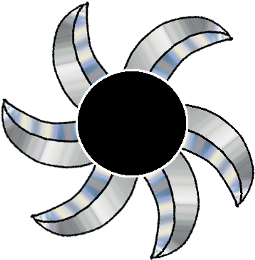
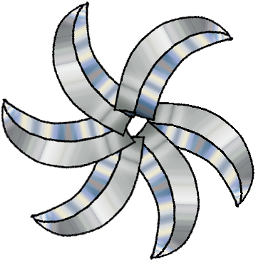
* Add lower base for metal tooth * More work on metal tooth object * Bullets should be no longer alive after they trigger a hit * Add metal tooth to infinite mode to test * Add metal tooth init to wavelet init

Changed region(s): [[0.2745, 0.2462, 0.7412, 0.7077]]

diff --git a/Duologue/PlayObjects/Enemy_MetalTooth.cs b/Duologue/PlayObjects/Enemy_MetalTooth.cs
@@ -36,6 +36,7 @@ namespace Duologue.PlayObjects
     {
         #region Constants
         private const string filename_Base = "Enemies/MetalTooth-base";
+        private const string filename_BaseLower = "Enemies/MetalTooth-base-lower";
         private const string filename_Blades = "Enemies/MetalTooth-blades";
         private const string filename_Shine = "Enemies/MetalTooth-shine";
 
@@ -44,13 +45,15 @@ namespace Duologue.PlayObjects
         private const float accel = 0.026f;
         private const double percentSlowDown = 0.75;
 
-        private const float fleeSpeed = 5.3f;
+        //private const float fleeSpeed = 5.3f;
 
         private const double maxFleeDistanceMultiplier = 7.0;
         private const double minFleeDistanceMultiplier = 3.0;
 
+        private const double timePerColorChange = 0.1f;
+
         // Deltas
-        private const float delta_Rotation = 0.01f;
+        private const float delta_Rotation = 0.07f;
         private const float delta_ShineOffsetX = -0f;
         private const float delta_ShineOffsetY = -12f;
 
@@ -101,9 +104,11 @@ namespace Duologue.PlayObjects
         private Texture2D texture_Base;
         private Texture2D texture_Blades;
         private Texture2D texture_Shine;
+        private Texture2D texture_BaseLower;
 
         private Vector2 offset_Shine;
         private Vector2 center_Base;
+        private Vector2 center_BaseLower;
         private Vector2 center_Blades;
         private Vector2 center_Shine;
 
@@ -168,6 +173,7 @@ namespace Duologue.PlayObjects
                 filename_Base,
                 filename_Blades,
                 filename_Shine,
+                filename_BaseLower,
             };
         }
 
@@ -176,6 +182,7 @@ namespace Duologue.PlayObjects
             texture_Base = InstanceManager.AssetManager.LoadTexture2D(filename_Base);
             texture_Blades = InstanceManager.AssetManager.LoadTexture2D(filename_Blades);
             texture_Shine = InstanceManager.AssetManager.LoadTexture2D(filename_Shine);
+            texture_BaseLower = InstanceManager.AssetManager.LoadTexture2D(filename_BaseLower);
 
             center_Base = new Vector2(
                 texture_Base.Width * 0.5f, texture_Base.Height * 0.5f);
@@ -183,6 +190,10 @@ namespace Duologue.PlayObjects
                 texture_Blades.Width * 0.5f, texture_Blades.Height * 0.5f);
             center_Shine = new Vector2(
                 texture_Shine.Width * 0.5f, texture_Shine.Height * 0.5f);
+            center_BaseLower = new Vector2(
+                texture_BaseLower.Width * 0.5f, texture_BaseLower.Height * 0.5f);
+
+            Radius = center_BaseLower.X;
 
             myColor = new Color[]
             {
@@ -214,11 +225,11 @@ namespace Duologue.PlayObjects
             {
                 nextPosition = new Vector2(
                     (float)MWMathHelper.GetRandomInRange(
-                        InstanceManager.DefaultViewport.TitleSafeArea.X,
-                        InstanceManager.DefaultViewport.TitleSafeArea.Right),
+                        InstanceManager.DefaultViewport.TitleSafeArea.X + center_BaseLower.X,
+                        InstanceManager.DefaultViewport.TitleSafeArea.Right - center_BaseLower.X),
                     (float)MWMathHelper.GetRandomInRange(
-                        InstanceManager.DefaultViewport.TitleSafeArea.Y,
-                        InstanceManager.DefaultViewport.TitleSafeArea.Bottom));
+                        InstanceManager.DefaultViewport.TitleSafeArea.Y + center_BaseLower.Y,
+                        InstanceManager.DefaultViewport.TitleSafeArea.Bottom - center_BaseLower.Y));
             }
             else
             {
@@ -261,6 +272,7 @@ namespace Duologue.PlayObjects
                     // We're on them, kill em
                     return pobj.TriggerHit(this);
                 }
+                rotation_Eye = MWMathHelper.ComputeAngleAgainstX(Vector2.Negate(vToPlayer)) + MathHelper.PiOver2;
             }
             return true;
         }
@@ -317,6 +329,17 @@ namespace Duologue.PlayObjects
                 null,
                 Color.White,
                 rotation_Blades,
+                1f,
+                0f);
+
+            // Draw lower base
+            InstanceManager.RenderSprite.Draw(
+                texture_BaseLower,
+                Position,
+                center_BaseLower,
+                null,
+                Color.White,
+                0f,
                 1f,
                 0f);
 
@@ -393,16 +416,31 @@ namespace Duologue.PlayObjects
                 currentState = MetalToothState.Fading;
                 GetNextPosition(Vector2.Zero);
             }
+            timeSinceSwitch = 0.0;
         }
 
         private void Update_Spawning()
         {
-            throw new NotImplementedException();
+            // Run through the other enemy objects, looking for dead ones
+
+            // If no more dead ones, resume movement, else go back to fade
+            //FIXME
+            currentColor = 0;
+            currentState = MetalToothState.Running;
         }
 
         private void Update_Fading()
         {
-            throw new NotImplementedException();
+            if (timeSinceSwitch > timePerColorChange)
+            {
+                timeSinceSwitch = 0.0;
+                currentColor++;
+                if (currentColor >= myColor.Length)
+                {
+                    currentColor = myColor.Length - 1;
+                    currentState = MetalToothState.Spawning;
+                }
+            }
         }
         #endregion
     }

diff --git a/Duologue/Waves/GameWaveManager.cs b/Duologue/Waves/GameWaveManager.cs
@@ -234,7 +234,7 @@ namespace Duologue.Waves
                     thisWave.Wavelets[thisWave.CurrentWavelet].Enemies[i] = TypesOfPlayObjects.Enemy_Ember;*/
                 //thisWave.Wavelets[thisWave.CurrentWavelet].Enemies[i] = TypesOfPlayObjects.Enemy_Ember;
                 //thisWave.Wavelet[thisWave.CurrentWavelet].Enemies[i] = TypesOfPlayObjects.Enemy_Gloop;
-                thisWave.Wavelets[thisWave.CurrentWavelet].Enemies[i] = TypesOfPlayObjects.Enemy_Mirthworm;
+                thisWave.Wavelets[thisWave.CurrentWavelet].Enemies[i] = TypesOfPlayObjects.Enemy_Placeholder;
                 thisWave.Wavelets[thisWave.CurrentWavelet].StartAngle[i] = (float)InstanceManager.Random.NextDouble() * MathHelper.TwoPi;
                 thisWave.Wavelets[thisWave.CurrentWavelet].ColorPolarities[i] = ColorState.RandomPolarity();
             }
@@ -242,9 +242,9 @@ namespace Duologue.Waves
             /*thisWave.Wavelets[thisWave.CurrentWavelet].Enemies[59] = TypesOfPlayObjects.Enemy_Pyre;
             thisWave.Wavelets[thisWave.CurrentWavelet].StartAngle[59] = MathHelper.TwoPi;*/
 
-            //thisWave.Wavelets[thisWave.CurrentWavelet].Enemies[thisWave.NumEnemies - 1] = TypesOfPlayObjects.Enemy_KingGloop;
-            //thisWave.Wavelets[thisWave.CurrentWavelet].StartAngle[thisWave.NumEnemies - 1] = MathHelper.Pi;
-            //thisWave.Wavelets[thisWave.CurrentWavelet].StartHitPoints[thisWave.NumEnemies - 1] = 2;
+            thisWave.Wavelets[thisWave.CurrentWavelet].Enemies[thisWave.NumEnemies - 1] = TypesOfPlayObjects.Enemy_MetalTooth;
+            thisWave.Wavelets[thisWave.CurrentWavelet].StartAngle[thisWave.NumEnemies - 1] = MathHelper.Pi;
+            thisWave.Wavelets[thisWave.CurrentWavelet].StartHitPoints[thisWave.NumEnemies - 1] = 2;
 
             /*
             thisWave.Wavelets[thisWave.CurrentWavelet].Enemies[39] = TypesOfPlayObjects.Enemy_ProtoNora;

diff --git a/Duologue/Waves/WaveletInit.cs b/Duologue/Waves/WaveletInit.cs
@@ -95,6 +95,9 @@ namespace Duologue.Waves
                         case TypesOfPlayObjects.Enemy_Placeholder:
                             Init_Placeholder(i, manager);
                             break;
+                        case TypesOfPlayObjects.Enemy_MetalTooth:
+                            Init_MetalTooth(i, manager);
+                            break;
                         default:
                             // Squat, for now
                             break;
@@ -111,6 +114,11 @@ namespace Duologue.Waves
         #endregion
 
         #region Enemy inits
+        private static void Init_MetalTooth(int i, GamePlayScreenManager manager)
+        {
+            LocalInstanceManager.Enemies[i] = new Enemy_MetalTooth(manager);
+        }
+
         private static void Init_Placeholder(int i, GamePlayScreenManager manager)
         {
             LocalInstanceManager.Enemies[i] = new Enemy_Placeholder(manager);

diff --git a/Duologue/PlayObjects/PlayerBullet.cs b/Duologue/PlayObjects/PlayerBullet.cs
@@ -194,6 +194,7 @@ namespace Duologue.PlayObjects
 
                     if (!currentColorState.SameColor(baseColor, c))
                     {
+                        Alive = false;
                         return TriggerHit(pobj);
                     }
                     else
